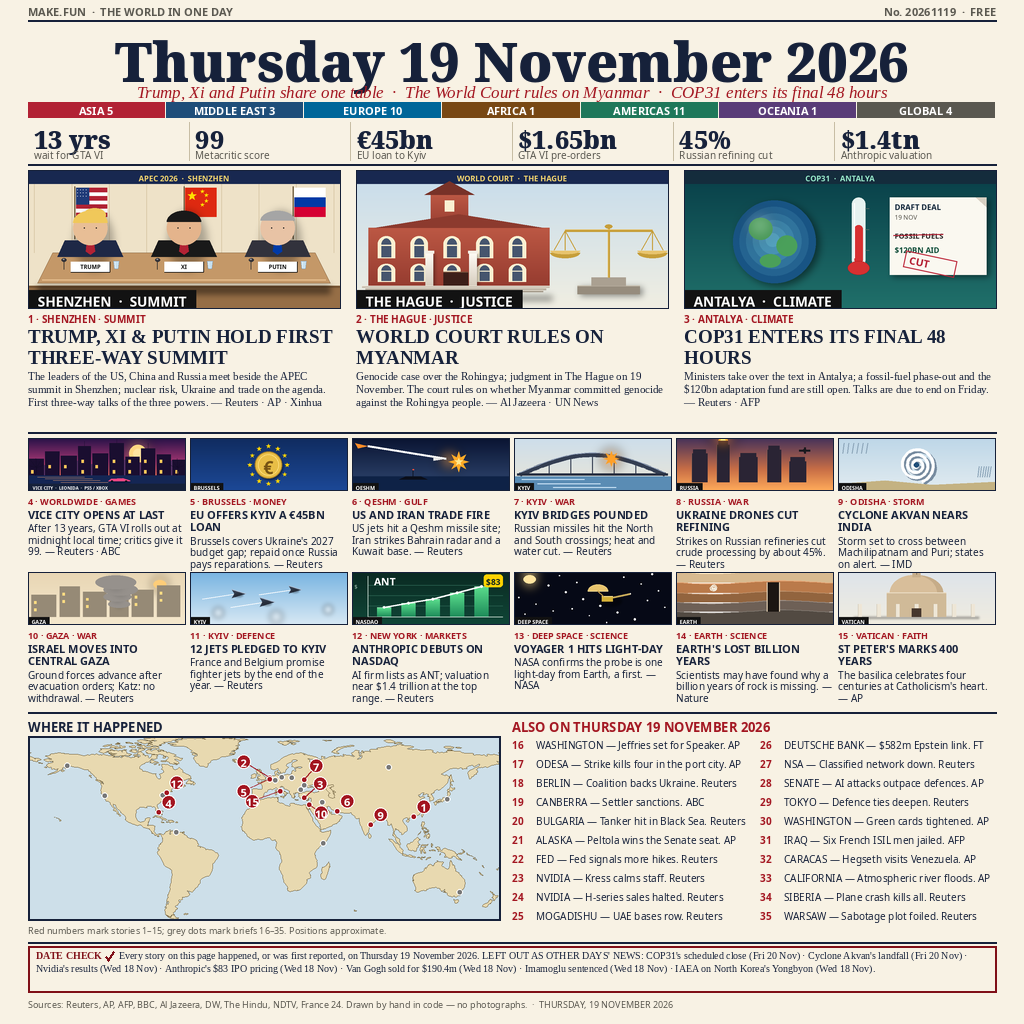
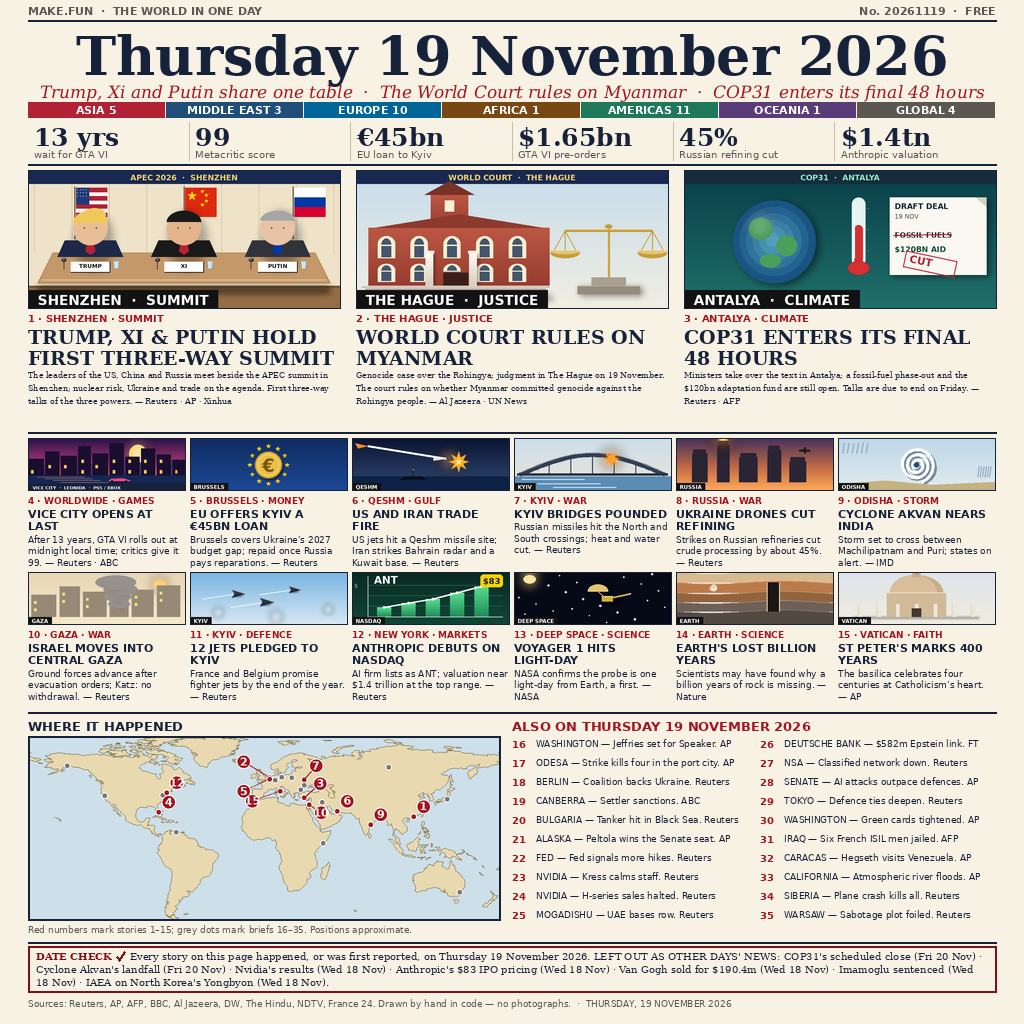
Fix grader crash: switch all fonts to DejaVu (present in grader image)
Noto/Liberation fonts exist on this VM but not in the grader's
python image, so ImageFont.truetype() raised OSError and
run_completes exited 1. Push 1 used DejaVu and passed.

DejaVu is wider, so three point sizes were reduced to keep every
text block inside its box (no story text changed):
- hero body 11 -> 8.5 (hero 1 needed it; uniform across heroes)
- mid body 9.5 -> 9 (mid 5 needed it)
- ALSO list 10 -> 9 (9 lines were truncated with ellipsis at 10)

Verified: 2x byte-identical renders, 1024x1024, 352483 bytes;
grader simulation (noto/ + liberation/ bind-mounted empty,
read-only copy) exits 0 with identical sha256.

diff --git a/gen_image.py b/gen_image.py
@@ -33,12 +33,12 @@ LAND_EDGE = (120, 105, 70)
 GREY = (90, 88, 80)
 GOLD = (212, 175, 55)
 
-SERIF_BLACK = "/usr/share/fonts/truetype/noto/NotoSerif-Black.ttf"
-SERIF_B = "/usr/share/fonts/truetype/liberation/LiberationSerif-Bold.ttf"
-SERIF_R = "/usr/share/fonts/truetype/liberation/LiberationSerif-Regular.ttf"
-SERIF_I = "/usr/share/fonts/truetype/liberation/LiberationSerif-Italic.ttf"
-SANS_B = "/usr/share/fonts/truetype/noto/NotoSans-Bold.ttf"
-SANS_R = "/usr/share/fonts/truetype/noto/NotoSans-Regular.ttf"
+SERIF_BLACK = "/usr/share/fonts/truetype/dejavu/DejaVuSerif-Bold.ttf"
+SERIF_B = "/usr/share/fonts/truetype/dejavu/DejaVuSerif-Bold.ttf"
+SERIF_R = "/usr/share/fonts/truetype/dejavu/DejaVuSerif.ttf"
+SERIF_I = "/usr/share/fonts/truetype/dejavu/DejaVuSerif-Italic.ttf"
+SANS_B = "/usr/share/fonts/truetype/dejavu/DejaVuSans-Bold.ttf"
+SANS_R = "/usr/share/fonts/truetype/dejavu/DejaVuSans.ttf"
 
 
 def font(path, size):
@@ -1106,9 +1106,9 @@ def render(out_path):
         assert len(head) <= 3, "hero %d headline too long: %r" % (hero["num"], head)
         y = text_block(d, hx, ky + 14, head, font(SERIF_B, 19), INK, 21)
         body = wrap(d, hero["body"] + " \u2014 " + hero["src"],
-                    font(SERIF_R, 11), hero_w)
+                    font(SERIF_R, 8.5), hero_w)
         assert len(body) <= 3, "hero %d body too long: %r" % (hero["num"], body)
-        text_block(d, hx, y + 2, body, font(SERIF_R, 11), INK, 13)
+        text_block(d, hx, y + 2, body, font(SERIF_R, 8.5), INK, 13)
     hline(d, 28, W - 28, 432)
 
     # ---- twelve mid stories, two rows of six
@@ -1128,9 +1128,9 @@ def render(out_path):
             hl = wrap(d, head, font(SANS_B, 11), mid_w)
             assert len(hl) <= 2, "mid %d headline too long: %r" % (num, hl)
             y = text_block(d, mx, ky + 12, hl, font(SANS_B, 11), INK, 12.5)
-            bl = wrap(d, body + " \u2014 " + src, font(SANS_R, 9.5), mid_w)
+            bl = wrap(d, body + " \u2014 " + src, font(SANS_R, 9), mid_w)
             assert len(bl) <= 3, "mid %d body too long: %r" % (num, bl)
-            text_block(d, mx, y + 2, bl, font(SANS_R, 9.5), INK, 11.5)
+            text_block(d, mx, y + 2, bl, font(SANS_R, 9), INK, 11.5)
     hline(d, 28, W - 28, 712)
 
     # ---- map + also-on-thursday
@@ -1150,7 +1150,7 @@ def render(out_path):
         nf = font(SANS_B, 10)
         d.text((ax, ay), "%02d" % num, font=nf, fill=RED)
         line = "%s \u2014 %s. %s" % (place, head, src)
-        lf = font(SANS_R, 10)
+        lf = font(SANS_R, 9)
         d.text((ax + 24, ay),
                fit(d, line, lf, 236 - 24), font=lf, fill=INK)
     hline(d, 28, W - 28, 942)
